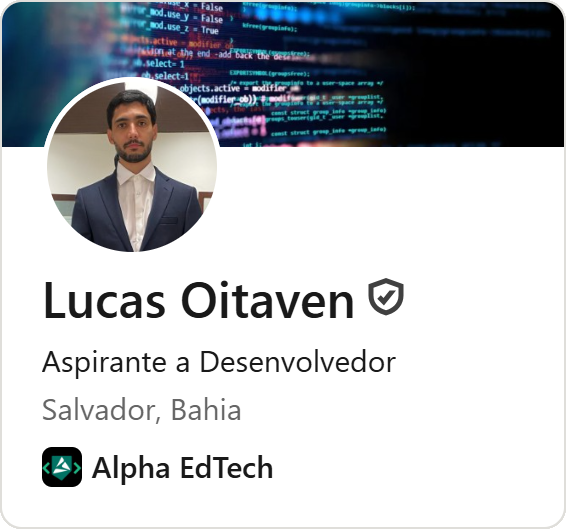
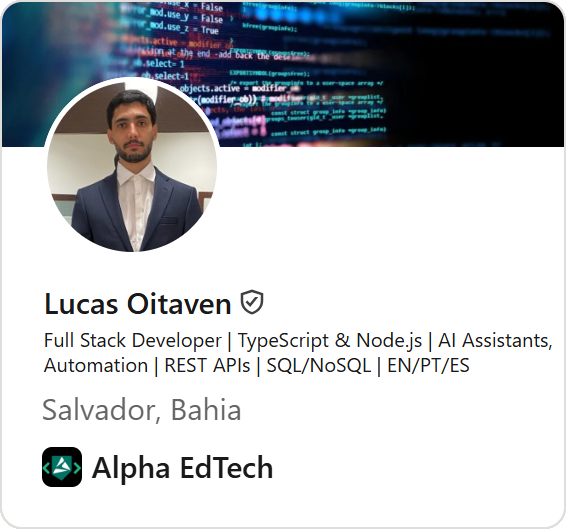
Add files via upload
add updates

Changed region(s): [[0.0601, 0.6352, 0.9912, 0.7259], [0.0601, 0.5142, 0.7208, 0.6049]]

diff --git a/index.html b/index.html
@@ -3,15 +3,15 @@
 <head>
     <meta charset="UTF-8">
     <meta name="viewport" content="width=device-width, initial-scale=1.0">
-    <meta name="description" content="Portfólio de Lucas Oitaven com projetos, skills em desenvolvimento web e formas de contato profissional.">
+    <meta name="description" content="Portfólio de Lucas Oitaven com soluções Full Stack, APIs REST, IA aplicada, automações e projetos com foco em resultado.">
     <meta property="og:type" content="website">
     <meta property="og:title" content="Lucas Oitaven | Portfólio">
-    <meta property="og:description" content="Conheça os projetos, habilidades e contatos profissionais de Lucas Oitaven.">
+    <meta property="og:description" content="Soluções Full Stack com APIs, IA e automação. Veja projetos, habilidades e formas de contato.">
     <meta property="og:url" content="https://lucas-oitaven.github.io/portfolio/">
     <meta property="og:image" content="https://lucas-oitaven.github.io/portfolio/img/logo.png">
     <meta name="twitter:card" content="summary_large_image">
     <meta name="twitter:title" content="Lucas Oitaven | Portfólio">
-    <meta name="twitter:description" content="Conheça os projetos, habilidades e contatos profissionais de Lucas Oitaven.">
+    <meta name="twitter:description" content="Soluções Full Stack com APIs, IA e automação. Veja projetos, habilidades e formas de contato.">
     <meta name="twitter:image" content="https://lucas-oitaven.github.io/portfolio/img/logo.png">
     <link rel="icon" type="image/png" href="./img/favicon.png">
     <link rel="stylesheet" href="style.css">
@@ -37,12 +37,12 @@
     <main>
         <section class="Sobre" id="sobre">
             <div class="sobre-conteiner">
-                <p class="eyebrow">Desenvolvedor em evolução constante</p>
+                <p class="eyebrow">Full Stack • APIs REST • IA aplicada</p>
                 <h1 id="nome">Lucas Oitaven</h1>
-                <h2>Desenvolvedor Web</h2>
-                <p>Com base em Engenharia Elétrica e foco em desenvolvimento de software, venho construindo projetos práticos com front-end, back-end e automações. Nos últimos meses ampliei meu domínio em tecnologias como JavaScript, TypeScript, Python, bancos relacionais, Linux e fundamentos de IA, buscando entregar soluções mais completas e profissionais.</p>
+                <h2>Transformo desafios em soluções digitais com engenharia, produto e IA</h2>
+                <p>Atuo no desenvolvimento Full Stack com TypeScript, Node.js, APIs REST, bancos SQL/NoSQL e aplicações com IA, RAG e automação. Minha base em Engenharia Elétrica e experiência em manutenção e comissionamento de sistemas de energia eólica fortaleceram minha visão analítica, disciplina técnica e capacidade de resolver problemas reais com foco em entrega.</p>
                 <div class="Contato-btn" id="contato-btn">
-                    <a href="#contato">Entre em contato</a>
+                    <a href="#contato">Vamos conversar</a>
                 </div>
             </div>
             <div class="sobre-img">
@@ -82,30 +82,30 @@
 
         <section class="Portfolio" id="portfolio">
             <h2>Projetos realizados</h2>
-            <p>Seleção de projetos para praticar desenvolvimento web com foco em interface, usabilidade e entrega de valor.</p>
+            <p>Projetos com aplicação prática, arquitetura consistente e foco em valor para negócio.</p>
             
             <div class="portfolio-grid">
                 <article class="projeto" id="projeto0">
-                    <a href="https://github.com/EduardoM69/Parking-control-API" target="_blank" rel="noopener noreferrer"><h3>Parking Control API</h3></a>
-                    <a href="https://github.com/EduardoM69/Parking-control-API" target="_blank" rel="noopener noreferrer"><img src="./img/parkflow-dashboard.png" alt="Dashboard do projeto ParkFlow" loading="lazy"></a>
-                    <p>Projeto em equipe, API para controle de estacionamento com foco em modelagem de domínio, regras de negócio e persistência de dados.</p>
+                    <a href="https://github.com/lucas-oitaven/DesafioCicloOficina" target="_blank" rel="noopener noreferrer"><h3>Desafio Final de Ciclo</h3></a>
+                    <a href="https://github.com/lucas-oitaven/DesafioCicloOficina" target="_blank" rel="noopener noreferrer"><img src="./img/projeto1.png" alt="Preview do Desafio Final de Ciclo" loading="lazy"></a>
+                    <p>Automação de atendimento via WhatsApp para borracharia e oficina, integrada a gestão de ordens de serviço. Stack: Dart/Flutter e APIs.</p>
                 </article>
                 <article class="projeto" id="projeto1">
-                    <a href="https://lucas-oitaven.github.io/CoffeeShop/" target="_blank" rel="noopener noreferrer"><h3>Página de Café</h3></a>
-                    <a href="https://lucas-oitaven.github.io/CoffeeShop/" target="_blank" rel="noopener noreferrer"><img src="./img/projeto1.png" alt="Projeto página de Café" loading="lazy"></a>
-                    <p>Landing page com foco em identidade visual, composição e navegação fluida.</p>
+                    <a href="https://github.com/lucas-oitaven/Parking-control-API" target="_blank" rel="noopener noreferrer"><h3>Parking Control API</h3></a>
+                    <a href="https://github.com/lucas-oitaven/Parking-control-API" target="_blank" rel="noopener noreferrer"><img src="./img/projeto2.png" alt="Preview da Parking Control API" loading="lazy"></a>
+                    <p>API REST para controle de veículos com regras de negócio, persistência e modelagem de domínio bem definidas. Stack: TypeScript e banco relacional.</p>
                 </article>
                 <article class="projeto" id="projeto2">
-                    <a href="https://lucas-oitaven.github.io/BowlShop/" target="_blank" rel="noopener noreferrer"><h3>Loja de Bowls</h3></a>
-                    <a href="https://lucas-oitaven.github.io/BowlShop/" target="_blank" rel="noopener noreferrer"><img src="./img/projeto2.png" alt="Projeto Loja de Bowl" loading="lazy"></a>
-                    <p>E-commerce conceitual com hierarquia visual clara e organização de conteúdo.</p>
+                    <a href="https://github.com/lucas-oitaven/burger-queen-ai-assistant" target="_blank" rel="noopener noreferrer"><h3>Burger Queen AI Assistant</h3></a>
+                    <a href="https://github.com/lucas-oitaven/burger-queen-ai-assistant" target="_blank" rel="noopener noreferrer"><img src="./img/projeto3.png" alt="Preview do Burger Queen AI Assistant" loading="lazy"></a>
+                    <p>Assistente com memória e RAG para atendimento e automação com IA aplicada em cenário real. Stack: TypeScript, LLM e recuperação de contexto.</p>
                 </article>
             </div>
         </section>
 
         <section class="Contato" id="contato">
             <h2>Contato</h2>
-            <p>Vamos conversar sobre oportunidades, projetos e colaborações.</p>
+            <p>Aberto a oportunidades e projetos para transformar ideias em produtos digitais de alto impacto.</p>
             <div class="redes-sociais" id="redes">
                 <div class="contato-card" id="linkedin">
                     <a href="https://www.linkedin.com/in/lucas-oitaven/" target="_blank" rel="noopener noreferrer"><img src="./img/linkedin.png" class="icon" alt="Ícone Linkedin" loading="lazy"><span class="caption-invisivel">LinkedIn</span></a>
